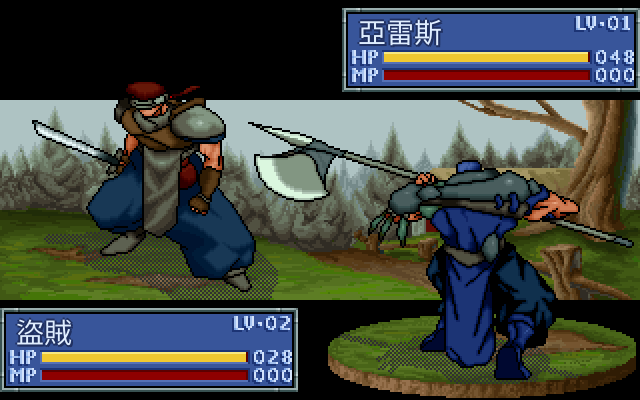
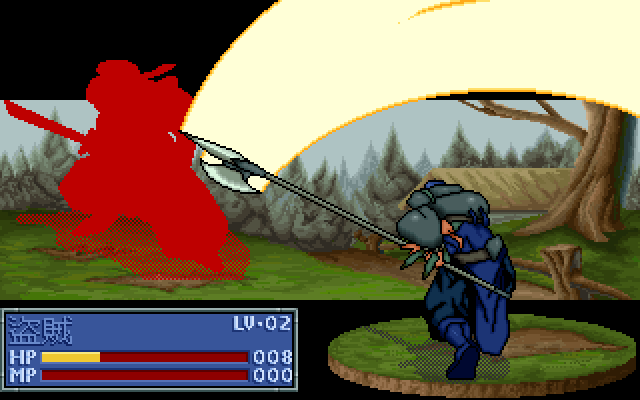
fix: activate native battle name glyphs

diff --git a/remake/cmd/fd2/native_battle_name.go b/remake/cmd/fd2/native_battle_name.go
@@ -11,6 +11,11 @@ import (
 	"github.com/wicanr2/fd2_re/remake/internal/fdtxt"
 )
 
+const (
+	nativeBattleNameOriginX = 5
+	nativeBattleNameOriginY = 4
+)
+
 // nativeBattleNameAssets 是全螢幕戰鬥狀態欄的原版姓名字模來源。
 // 原版 0x18c6d→0x15f84 走 FDOTHER#4 的 16×16 1bpp glyph，不與對話／現代
 // UTF-8 字型共用；索引表仍是可編輯資產，未知字元一律拒絕 native 路徑。
@@ -27,9 +32,20 @@ func loadNativeBattleNameAssets() (*fdtxt.Font, map[string]int, error) {
 	if err != nil {
 		return nil, nil, err
 	}
-	index := make(map[string]int)
-	if err := json.Unmarshal(indexRaw, &index); err != nil {
+	encoded := make(map[string]json.RawMessage)
+	if err := json.Unmarshal(indexRaw, &encoded); err != nil {
 		return nil, nil, err
+	}
+	index := make(map[string]int, len(encoded))
+	for key, value := range encoded {
+		if key == "_comment" {
+			continue
+		}
+		var glyph int
+		if err := json.Unmarshal(value, &glyph); err != nil {
+			return nil, nil, fmt.Errorf("native battle name glyph %q: %w", key, err)
+		}
+		index[key] = glyph
 	}
 	for key, glyph := range index {
 		if glyph < 0 || glyph >= font.GlyphCount() {
@@ -115,10 +131,9 @@ func (g *Game) drawNativeBattleName(screen *ebiten.Image, x, y float64, name str
 	}
 	op := &ebiten.DrawImageOptions{}
 	op.GeoM.Scale(2, 2)
-	// The indexed helper reserves one native pixel for the x-1 shadow write;
-	// place that margin immediately before the evidence-backed local x=8 name
-	// origin inside the 149×42 panel.
-	op.GeoM.Translate(x+(8-1)*2, y+2*2)
+	// 索引輔助函式為 x-1 陰影保留一個原生像素。0x18C6D 傳給 0x15F84 的
+	// 座標是 panel+(5,4)，因此暫存面從原生 x=4 開始，第一個前景像素仍在 x=5。
+	op.GeoM.Translate(x+(nativeBattleNameOriginX-1)*2, y+nativeBattleNameOriginY*2)
 	screen.DrawImage(img, op)
 	return true
 }

diff --git a/remake/cmd/fd2/native_battle_name_test.go b/remake/cmd/fd2/native_battle_name_test.go
@@ -2,10 +2,21 @@ package main
 
 import (
 	"encoding/binary"
+	"image/color"
 	"testing"
 
 	"github.com/wicanr2/fd2_re/remake/internal/fdtxt"
 )
+
+func TestBundledNativeBattleNameAssetsCoverImpactFixture(t *testing.T) {
+	font, index, err := loadNativeBattleNameAssets()
+	if err != nil {
+		t.Fatal(err)
+	}
+	if _, ok := nativeBattleNameImage(font, index, color.Palette{}, "盜賊"); !ok {
+		t.Fatal("bundled native battle name assets reject impact fixture name")
+	}
+}
 
 func TestRenderNativeBattleNameIndexedPreservesNativeShadowABI(t *testing.T) {
 	raw := make([]byte, 2*fdtxt.GlyphBytes)
@@ -34,5 +45,11 @@ func TestRenderNativeBattleNameIndexedRejectsUnknownCharacter(t *testing.T) {
 	}
 	if _, _, _, err := renderNativeBattleNameIndexed(font, map[string]int{"甲": 0}, "乙", 0xcd, 0x4c); err == nil {
 		t.Fatal("unknown native battle glyph silently accepted")
+	}
+}
+
+func TestNativeBattleNameOriginPreserves18C6DCallerCoordinates(t *testing.T) {
+	if nativeBattleNameOriginX != 5 || nativeBattleNameOriginY != 4 {
+		t.Fatalf("native battle name origin=(%d,%d), want (5,4)", nativeBattleNameOriginX, nativeBattleNameOriginY)
 	}
 }

diff --git a/remake/cmd/fd2/main.go b/remake/cmd/fd2/main.go
@@ -9289,7 +9289,7 @@ func (g *Game) drawBattlePanel(screen *ebiten.Image, x, y float64, name string, 
 	}
 	drawFill(rnd(y+31*sc), float64(mp)/float64(mpmx),
 		color.RGBA{0xf0, 0x70, 0x60, 0xff}, color.RGBA{0xc8, 0x28, 0x20, 0xff}) // MP 紅
-	// 排版(對照 orig 放大量測,native):名(8,2) 16px;LV數字接框內「LV‧」後(133,3) 9px;
+	// 排版(0x18C6D直接caller):名(5,4) 16px;LV數字接框內「LV‧」後(132,4);
 	// HP/MP 數值與槽同列(125,20)/(125,29) 8px
 	_ = white
 	// 名字：原版 0x15f84→0x4ea2a 使用 FDOTHER#4 16×16 glyph；只有

diff --git a/docs/knowledge-base/56-fd2-remake-sdd.md b/docs/knowledge-base/56-fd2-remake-sdd.md
@@ -1564,7 +1564,9 @@ phase前的九段figure fade，因此本切片只列
 決定：零值在`(0,154)`，非零在`(171,4)`；raw chapter24且unit index17是強制
 下方的直接例外。框為FDOTHER#5 LMI1 entry22的opaque 149×42 cell；HP／MP
 bar使用raw cells23..30，兩／三位數使用frame entries31..52與93，姓名使用
-FDTXT resource0的`record+8+1`及FDOTHER#4 16×16字模。所有座標、數值寬度、
+FDTXT resource0的`record+8+1`及FDOTHER#4 16×16字模。姓名呼叫原點固定為
+panel `+(5,4)`；`0x4EA2A` 的左下陰影可寫到 `x-1`，因此重製端暫存面必須保留
+左側一像素，不可把暫存面的邊界誤當成姓名原點。所有座標、數值寬度、
 bar公式與繪製順序以
 [`fd2_battle_status_panel_ida.txt`](../data/ida/fd2_battle_status_panel_ida.txt)
 為準。`battle.RenderNativeBattlePanel`現要求raw `+6/+8` provenance並在私有
@@ -4710,6 +4712,11 @@ Capstone 證據已確認 `0x18c6d→0x15f84→0x4ea2a` 消費 FDOTHER#4 的 16×
 1bpp glyph；重製端現以可版控的 `FDOTHER_004.bin` 與
 `unicode_to_glyph.json` 逐字建立索引畫面，再以原版前景／陰影索引放大 2×。
 缺少字模或 Unicode 對映時才退回既有 TTF，未知字元不會被猜測成其他 glyph。
+
+2026-08-25執行期稽核發現上述索引載入曾因JSON頂層`_comment`字串被直接解成
+`map[string]int`而整批失敗，初始化又退回TTF；因此2026-08-10截圖只能證明素材
+存在，不能證明正式消費端真的啟用。現改為只明確略過`_comment`，其餘key仍必須
+是合法整數glyph且在字模範圍內；「盜賊」實檔載入與同狀態抓圖是新的驗收閘門。
 
 Docker／Xvfb 實際產生 [`battle-native-name-remake.png`](../figures/battle-native-name-remake.png)，
 完整輸入雜湊與命令見 [`battle-name-glyph-ch01.json`](../data/ui-traces/battle-name-glyph-ch01.json)。

diff --git a/README.md b/README.md
@@ -405,12 +405,14 @@ E1 執行期產物展示：[`native-battle-ch01-remake-e1.png`](docs/figures/nat
 儲存庫作歷史證據。以下是 2026-08-25 以目前原始碼重新擷取的命中幀：左為原版
 影像正規化結果，中為重製端，右為逐 RGB 差異遮罩。IDA證實並接上原版
 `0x2939D` 的第一個命中位移相位後，最佳frame76由4436降至1330個差異像素；
-剩餘差異主要在狀態欄字形與少量像素，仍不宣稱整個戰鬥介面已完成像素級一致。
+同輪再修正會讓原版字模索引整批退回現代字型的JSON註解解析錯誤，降至903個。
+剩餘差異主要在HP／MP數字與橫條，仍不宣稱整個戰鬥介面已完成像素級一致。
 
 ![戰鬥命中幀正規化對照與差異遮罩](docs/figures/battle-impact-compare-20260825.png)
 
-戰鬥狀態欄姓名目前已改接原版 `FDOTHER#4` 16×16 點陣字模；下圖是 Docker／Xvfb
-以目前 source 重新建置的 E1 演出截圖。它只證明姓名字模的消費端，不代表攻擊幀、
+戰鬥狀態欄姓名目前已改接原版 `FDOTHER#4` 16×16 點陣字模；2026-08-25並修正
+`unicode_to_glyph.json` 的 `_comment` 使整批索引誤退回現代字型的問題。下圖是
+Docker／Xvfb以目前原始碼重新建置的 E1 演出截圖。它只證明姓名字模的消費端，不代表攻擊幀、
 傷害／閃紅或整個戰鬥介面已與原版逐像素一致。
 
 ![重製端原版字模戰鬥狀態欄](docs/figures/battle-native-name-remake.png)

diff --git a/docs/knowledge-base/SESSION-HANDOFF-2026-07-06.md b/docs/knowledge-base/SESSION-HANDOFF-2026-07-06.md
@@ -6488,3 +6488,15 @@ raw `+3/+5` writes，不是generic redraw；原資源presenter、group9完整tra
   1330；守方剪影主要位置差異已消除。新圖為
   `docs/figures/battle-impact-compare-20260825.png`。這仍不是一般玩家E2、完整DAC、
   六相位逐幀或精確音訊證據。
+
+## 2026-08-25：戰鬥姓名字模消費端勘誤
+
+- 2026-08-10「姓名已接FDOTHER#4」只證明素材與孤立helper；實檔
+  `unicode_to_glyph.json`含`_comment`字串，舊載入器直接解成`map[string]int`
+  必定整批失敗，而初始化靜默退回TTF。該舊截圖與完成宣稱因此撤回。
+- 新載入器只明確略過`_comment`，其餘key仍須為範圍內整數glyph；實檔「盜賊」
+  載入測試通過。另依既有IDA caller把姓名原點從錯誤`+(8,2)`改回`+(5,4)`，
+  並保留`0x4EA2A`陰影所需的`x-1`暫存欄。
+- Docker／Xvfb重抓後，frame76相對同一原版錨點的`AE`由位移修正後1330再降至903；
+  新遮罩顯示姓名差異已消失，剩餘主要是HP／MP數字與橫條。這才是姓名正式
+  `RUNTIME-E1`的玩家可見驗證，仍不是一般玩家E2。
